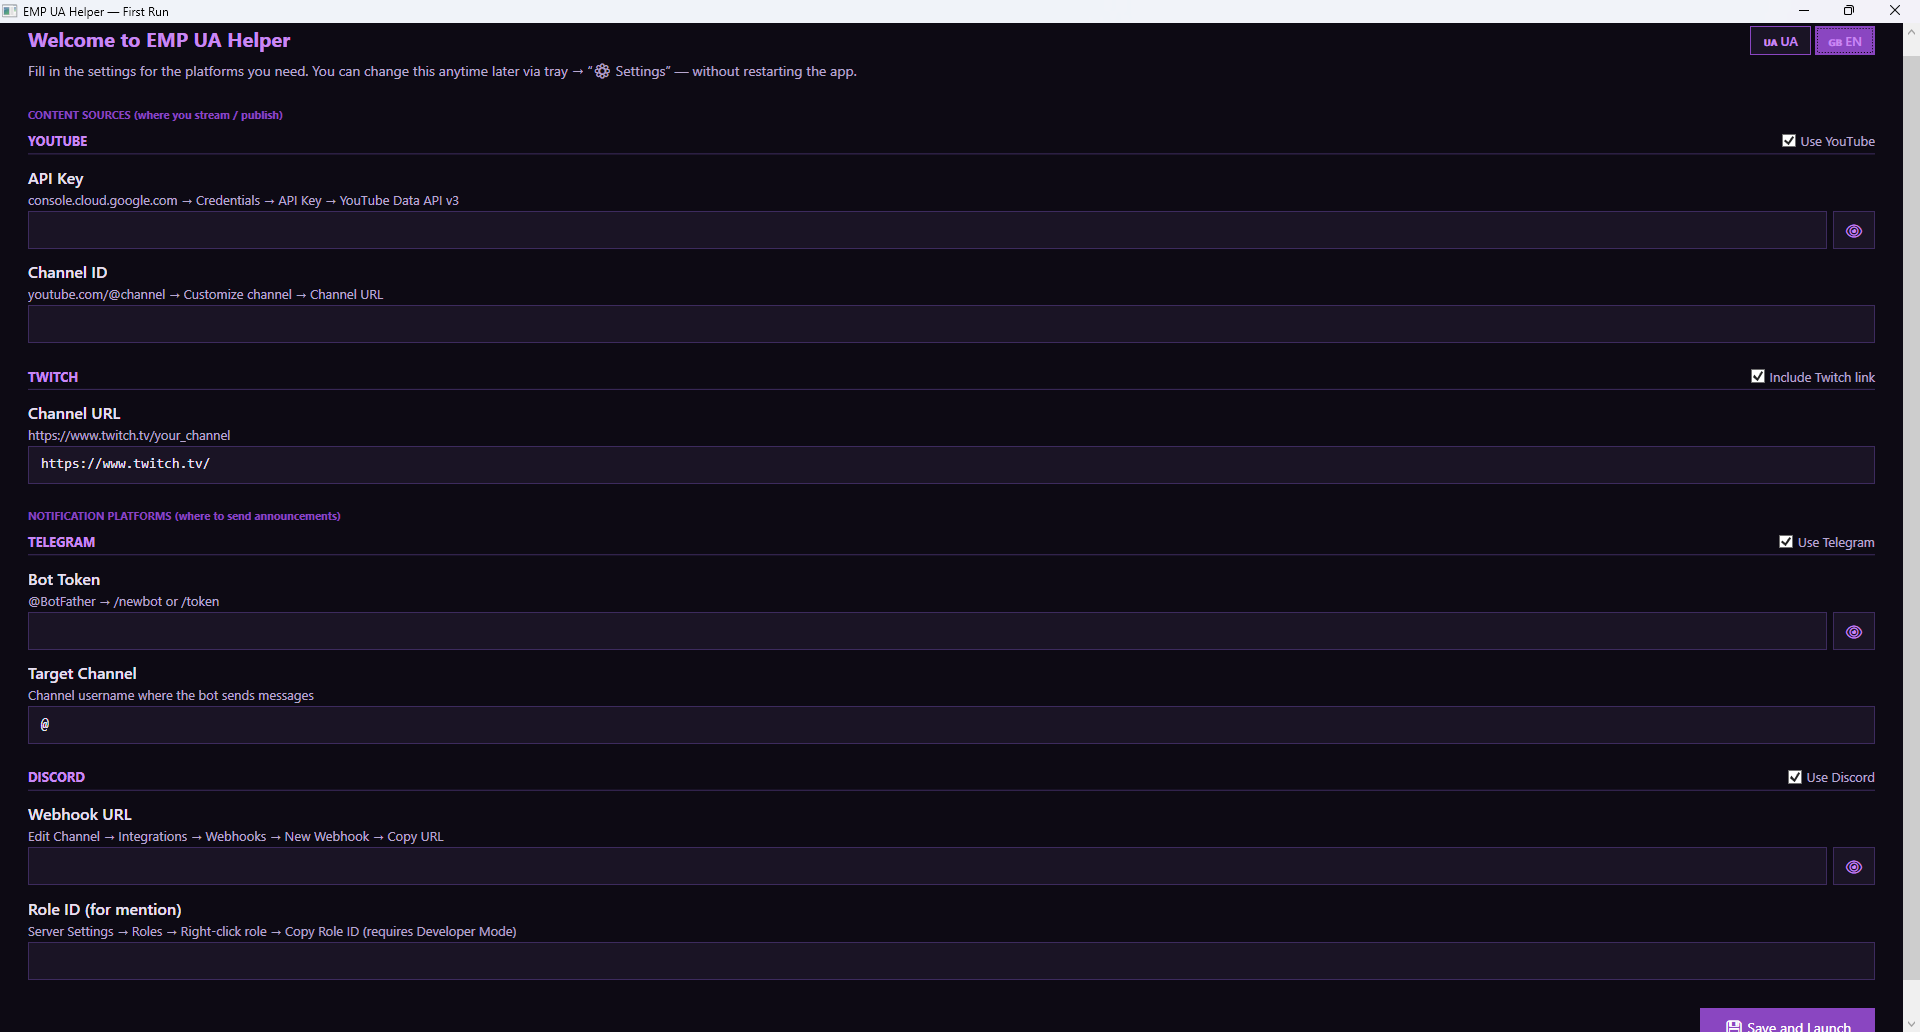
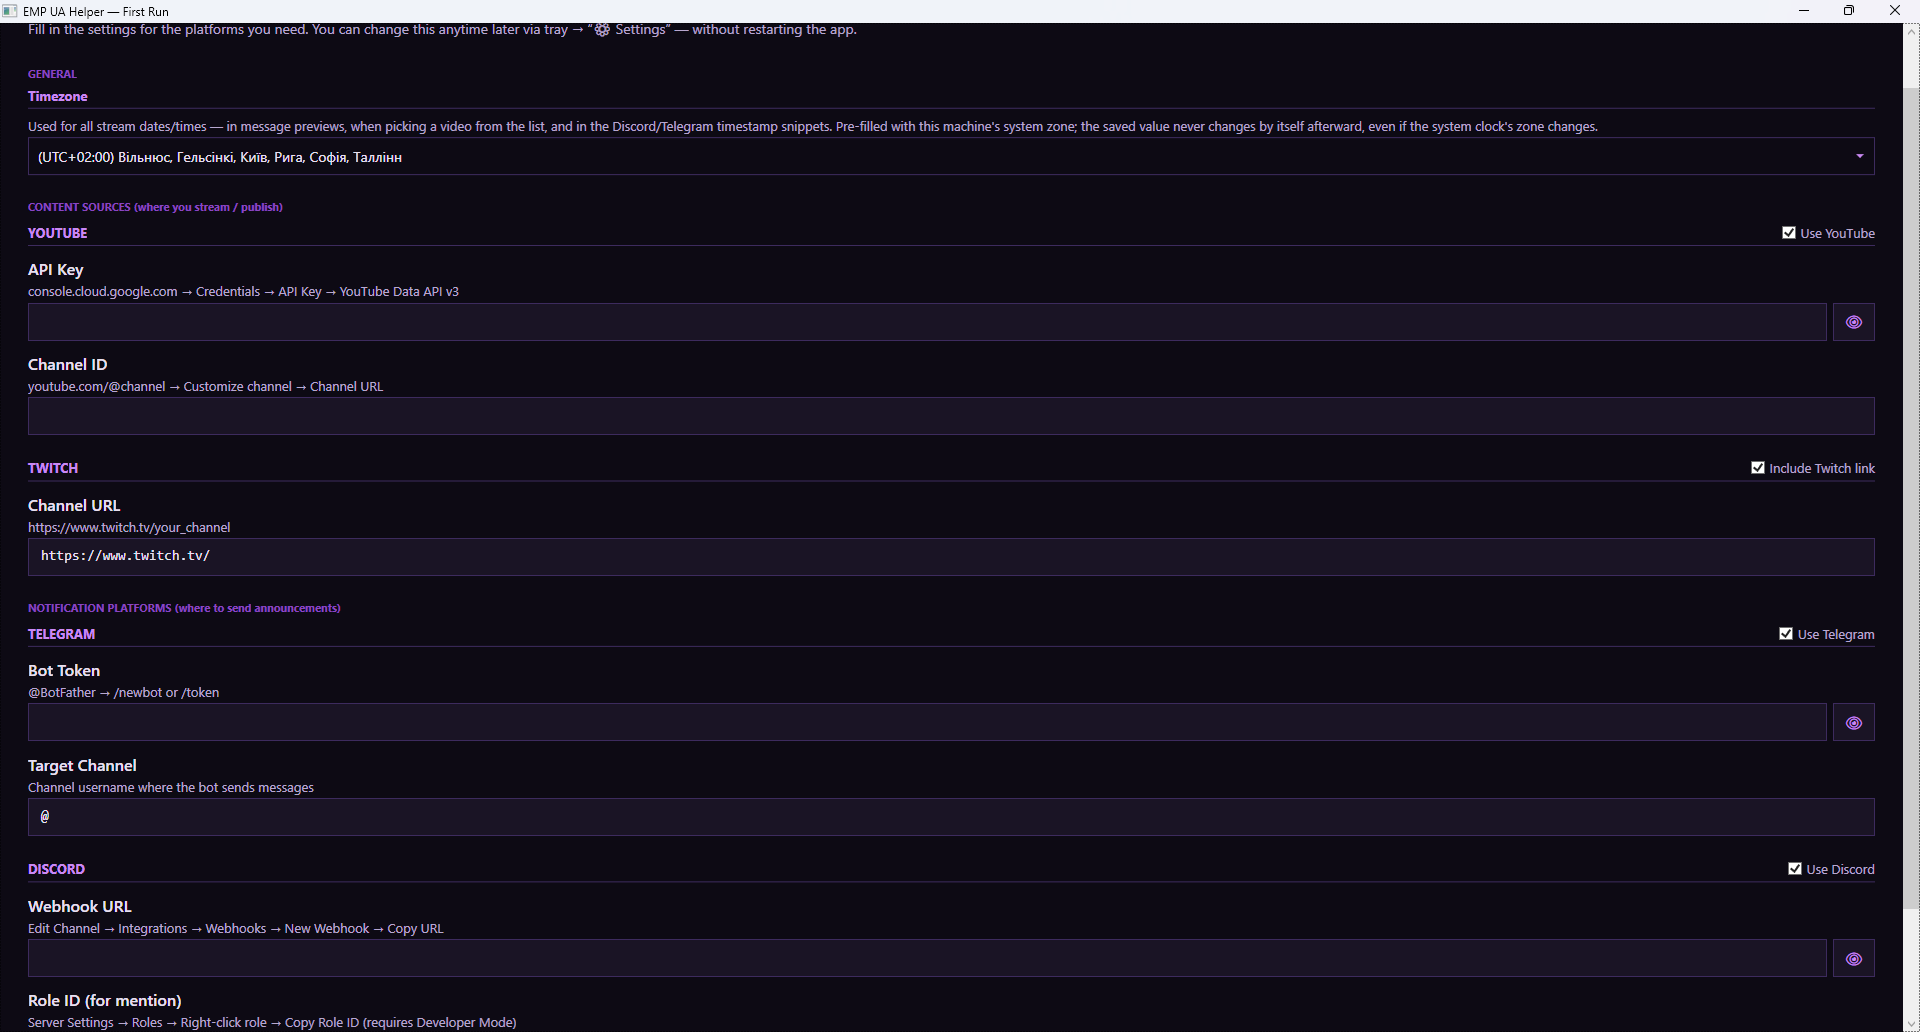
README: додано ручний режим/канали/таймзону до Features, пояснення полів каналів у Settings, оновлено скрін First Run

diff --git a/README.md b/README.md
@@ -17,7 +17,12 @@
 - **UA:** Локальний кеш YouTube-контенту — заплановані трансляції не губляться, навіть якщо випадуть за межі останніх ~15 записів фіду каналу через активну публікацію іншого контенту / **EN:** Local YouTube content cache — scheduled streams aren't lost even if they fall outside the channel's last ~15 feed entries due to other active publishing
 - **UA:** Кожна платформа опціональна — Telegram, YouTube, Discord, Twitch вмикаються/вимикаються незалежно (потрібна хоча б одна платформа сповіщень: Telegram або Discord) / **EN:** Every platform is optional — Telegram, YouTube, Discord, Twitch toggle independently (at least one notification platform, Telegram or Discord, is required)
 - **UA:** Вікно "⚙ Налаштування" в треї — зміна комбінації платформ у будь-який момент, без перезапуску програми / **EN:** "⚙ Settings" window in the tray — change the platform combination anytime, without restarting the app
-- **UA:** "📡 Надіслати сповіщення" — єдине вікно з живим прикладом перед відправкою: автопідбір останнього опублікованого контенту (за бажанням) або вибір конкретного відео зі списку з мініатюрою, назвою та реальною датою публікації/трансляції / **EN:** "📡 Send Notification" — a single window with a live preview before sending: auto-pick the latest published content (optional) or choose a specific video from a list with a thumbnail, title, and real publish/broadcast date
+- **UA:** "📡 Надіслати сповіщення" — єдине вікно з живим прикладом перед відправкою: автопідбір останнього опублікованого контенту (за бажанням), вибір конкретного відео зі списку з мініатюрою, назвою та реальною датою публікації/трансляції, або повністю ручний режим без жодного шаблону / **EN:** "📡 Send Notification" — a single window with a live preview before sending: auto-pick the latest published content (optional), choose a specific video from a list with a thumbnail, title, and real publish/broadcast date, or a fully manual mode with no template at all
+- **UA:** ✍ Повністю ручний режим — окремі текстові поля для Telegram і Discord, без будь-якої підстановки шаблону: відправляється рівно те, що введено / **EN:** ✍ Fully manual mode — separate text fields for Telegram and Discord, with zero template substitution: sends exactly what was typed
+- **UA:** У ручному режимі — генератори готових до копіювання позначок часу (Telegram-рядок, Discord-тег) і згадок Discord (роль/користувач/канал за самим ID) / **EN:** In manual mode — generators for ready-to-copy timestamp snippets (Telegram string, Discord tag) and Discord mentions (role/user/channel by ID alone)
+- **UA:** Часовий пояс налаштовується (не захардкоджений), коректно враховує перехід літній/зимовий час / **EN:** Configurable timezone (not hardcoded), correctly handles daylight saving transitions
+- **UA:** Кнопки 📅🕐⏱ для всіх полів дати/часу — календар, вибір години/хвилини, підстановка поточного часу / **EN:** 📅🕐⏱ buttons for every date/time field — calendar, hour/minute picker, fill-in-current-time
+- **UA:** Кілька іменованих каналів Discord з вибором, куди надіслати конкретне сповіщення / **EN:** Multiple named Discord channels with a picker for where a specific notification goes
 - **UA:** Різні шаблони повідомлень для кожного типу і платформи, з вбудованим редактором / **EN:** Separate message templates per content type and platform, with a built-in editor
 - **UA:** Шаблони автоматично прибирають рядки з посиланнями, яких немає (наприклад, якщо Twitch вимкнено) — жодних битих посилань / **EN:** Templates automatically drop lines referencing links that aren't set (e.g. if Twitch is disabled) — no dangling links
 - **UA:** М'яке попередження, якщо вставлене посилання не схоже на YouTube чи Twitch — не блокує відправку, лише підказка / **EN:** A soft warning if the pasted link doesn't look like YouTube or Twitch — doesn't block sending, just a hint
@@ -64,6 +69,9 @@ Each section has its own toggle — only fill in the platforms you actually use.
 | YouTube API Key | [Google Cloud Console](https://console.cloud.google.com) → Credentials → API Key → YouTube Data API v3 |
 | Discord Webhook URL | **UA:** Редагувати канал → Інтеграції → Вебхуки → Новий вебхук → Скопіювати URL <br> **EN:** Edit Channel → Integrations → Webhooks → New Webhook → Copy URL |
 | Discord Role ID | **UA:** Налаштування сервера → Ролі → ПКМ на роль → Скопіювати ID ролі (потрібен режим розробника) <br> **EN:** Server Settings → Roles → Right-click role → Copy Role ID (requires Developer Mode) |
+
+**UA:** Той самий Discord Webhook URL вище — це основний канал. У "⚙ Налаштування" в секції Discord є ще два необов'язкові поля: назва основного каналу (підпис для списку вибору у вікні надсилання, за замовчуванням "Основний канал") і "Додаткові канали Discord" — кнопкою ➕ додаєш будь-яку кількість пар назва+вебхук для інших каналів (наприклад, тестового чи іншомовного). З двома й більше каналами у вікні "📡 Надіслати сповіщення" з'являється можливість обрати, куди саме йде конкретне сповіщення (докладніше — нижче).
+**EN:** The Discord Webhook URL above is the primary channel. Under "⚙ Settings" in the Discord section there are two more optional fields: a primary channel name (a label for the picker in the send window, defaults to "Primary channel") and "Additional Discord channels" — the ➕ button lets you add any number of name+webhook pairs for other channels (e.g. a test channel or a different-language one). With two or more channels configured, the "📡 Send Notification" window gains the option to pick where a specific notification goes (more on this below).
 
 ---
 
